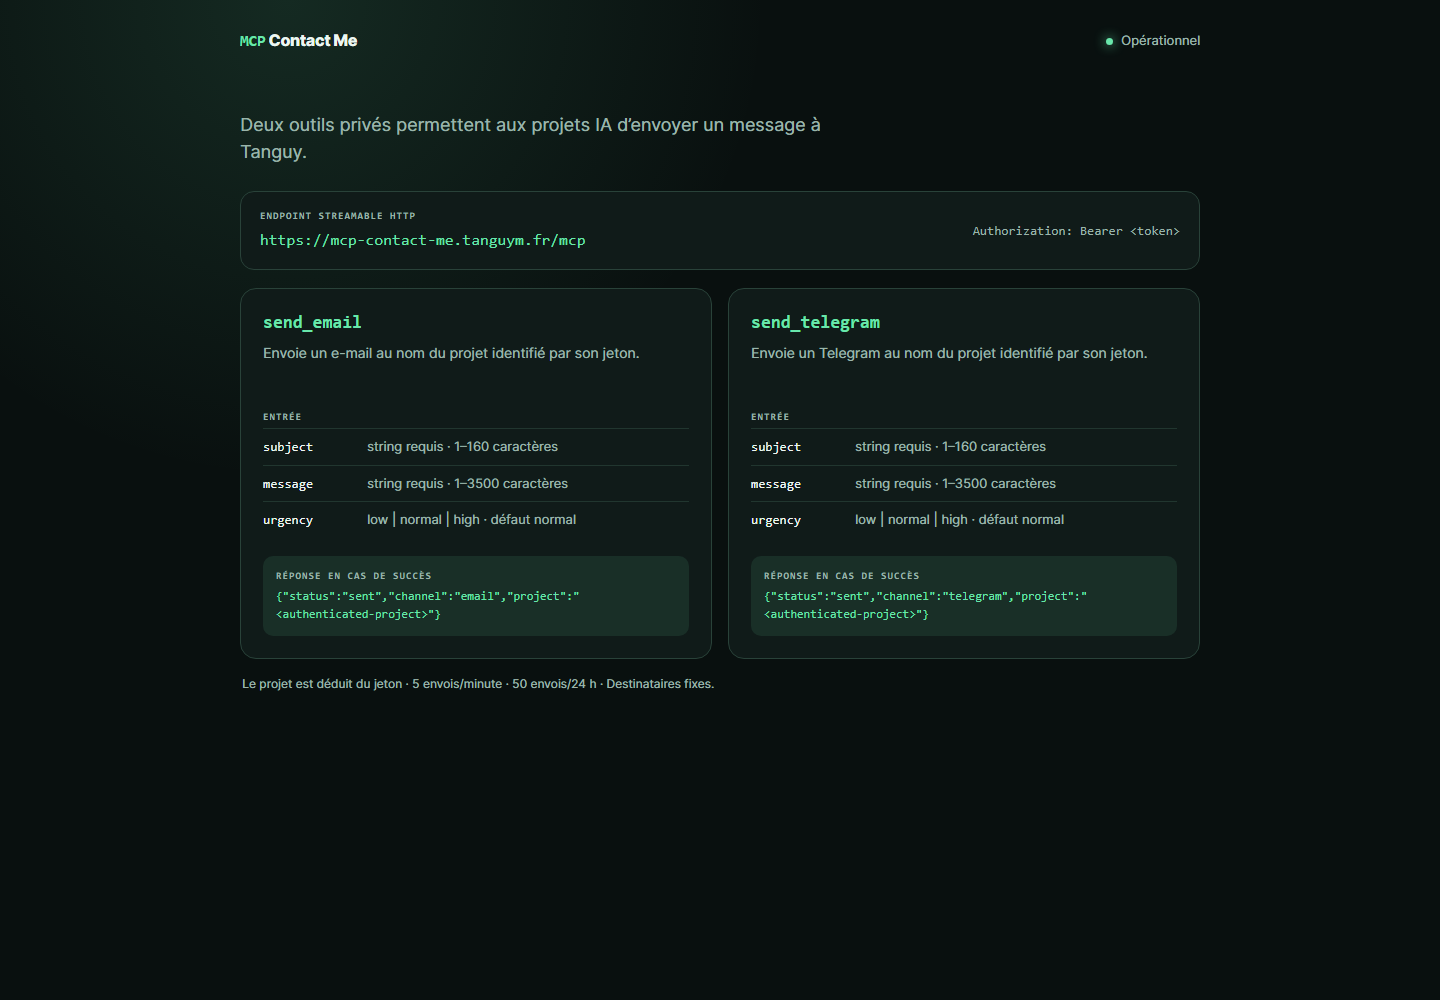
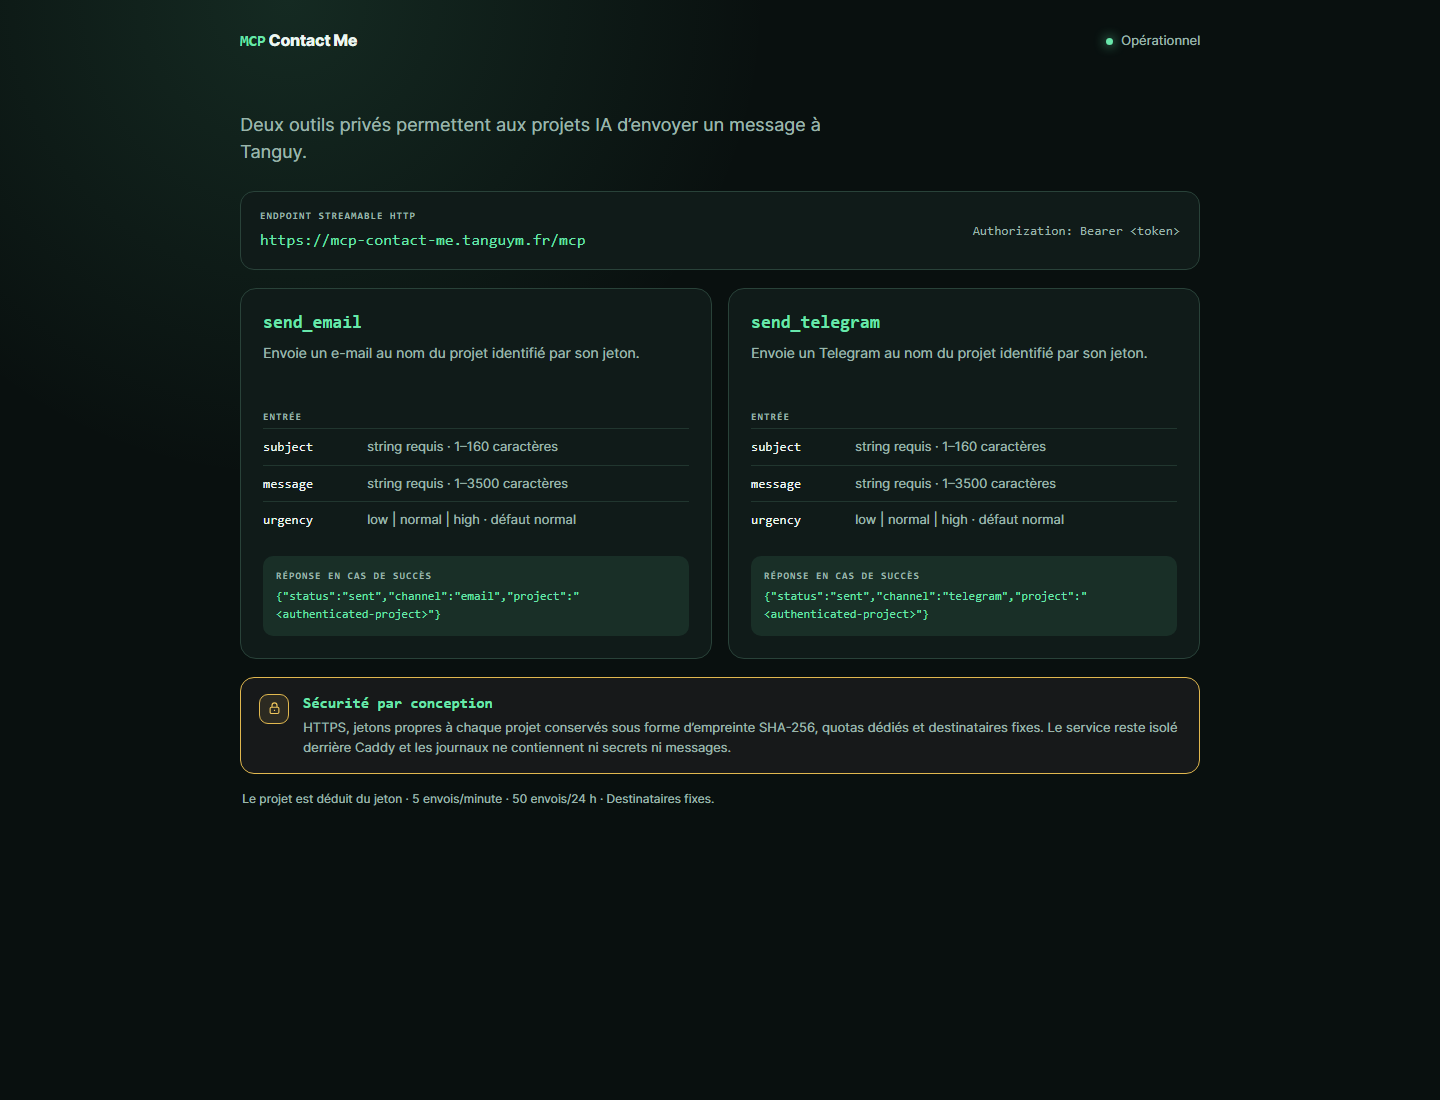
Add server security highlight

diff --git a/public/index.html b/public/index.html
@@ -57,6 +57,31 @@
     dd { margin: 0; color: var(--muted); }
     .response { margin-top: 18px; padding: 13px; border-radius: 10px; background: var(--soft); }
     .response code { display: block; color: var(--accent); font-size: 12px; overflow-wrap: anywhere; }
+    .security {
+      display: grid;
+      grid-template-columns: auto 1fr;
+      gap: 14px;
+      align-items: start;
+      margin-top: 18px;
+      padding: 16px 18px;
+      border: 1px solid #e1b84f;
+      border-radius: 14px;
+      background: #17191a;
+    }
+    .security-mark {
+      display: grid;
+      width: 30px;
+      height: 30px;
+      place-items: center;
+      border: 1px solid #e1b84f;
+      border-radius: 9px;
+      color: #f0c75e;
+      font: 800 15px/1 "SFMono-Regular", Consolas, monospace;
+      background: rgba(240, 199, 94, .1);
+    }
+    .security-mark svg { width: 15px; height: 15px; fill: none; stroke: currentColor; stroke-width: 1.8; }
+    .security h2 { font-size: 15px; }
+    .security p { margin: 5px 0 0; color: var(--muted); font-size: 13px; }
     .note { margin: 16px 2px 0; color: var(--muted); font-size: 12px; }
     @media (max-width: 720px) {
       .page { width: min(100% - 24px, 960px); padding-top: 20px; }
@@ -115,6 +140,20 @@
             <code>{"status":"sent","channel":"telegram","project":"&lt;authenticated-project&gt;"}</code>
           </div>
         </article>
+      </section>
+
+      <section class="security" aria-label="Sécurité du serveur">
+        <div class="security-mark" aria-hidden="true">
+          <svg viewBox="0 0 24 24" aria-hidden="true">
+            <rect x="5" y="10" width="14" height="10" rx="2"></rect>
+            <path d="M8 10V7a4 4 0 0 1 8 0v3"></path>
+            <path d="M12 14v2"></path>
+          </svg>
+        </div>
+        <div>
+          <h2>Sécurité par conception</h2>
+          <p>HTTPS, jetons propres à chaque projet conservés sous forme d’empreinte SHA-256, quotas dédiés et destinataires fixes. Le service reste isolé derrière Caddy et les journaux ne contiennent ni secrets ni messages.</p>
+        </div>
       </section>
 
       <p class="note">Le projet est déduit du jeton · 5 envois/minute · 50 envois/24 h · Destinataires fixes.</p>
